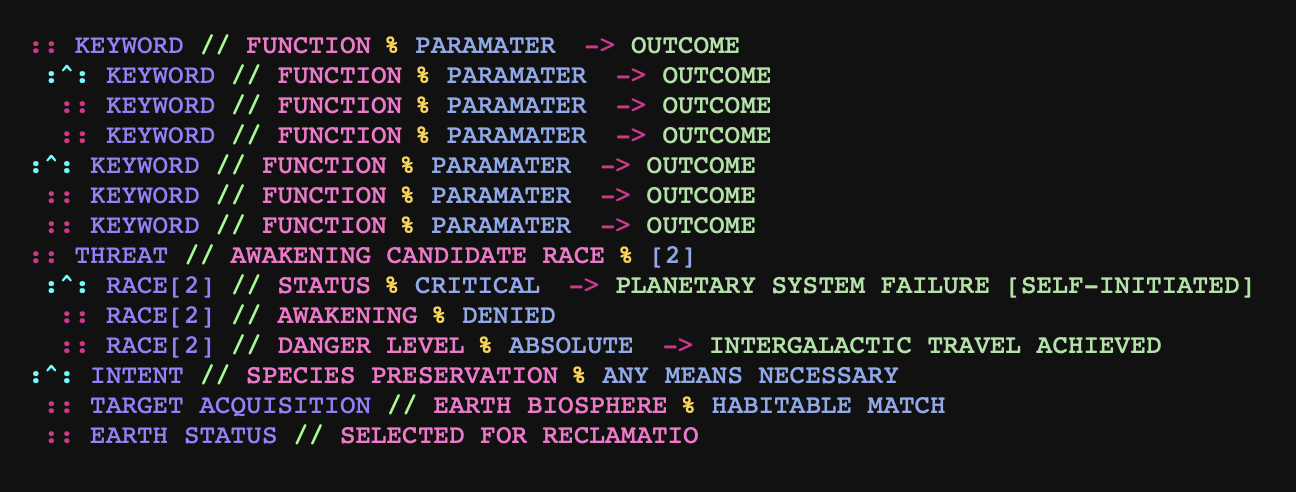
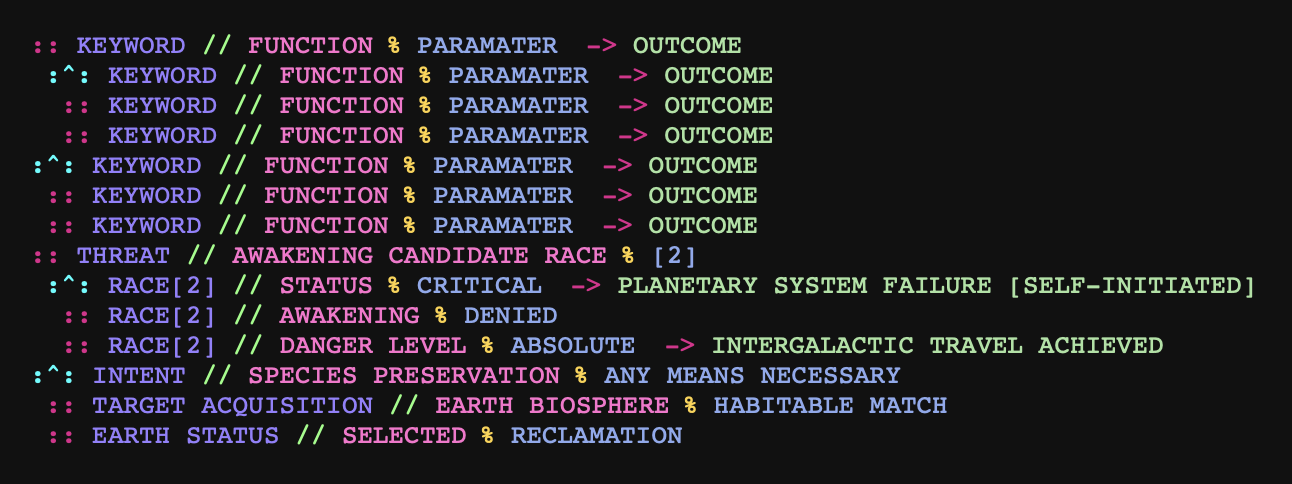
Refine EARTH STATUS line in BARRELMAN syntax and update README.md
- Corrected the EARTH STATUS line in barrelman_preview.html, README.md, and BARRELEXAMPLE.bman for clarity and consistency.
- Changed "SELECTED FOR RECLAMATIO" to "SELECTED % RECLAMATION" to enhance understanding of the syntax.

Changed region(s): [[0.031, 0.062, 0.9907, 0.9298]]

diff --git a/barrelman_preview.html b/barrelman_preview.html
@@ -23,5 +23,5 @@ body { line-height: 1.2; }
 <div class='entry'><span class='declaration'>        ::</span> <span class='relation'>RACE[2] // DANGER LEVEL //</span><span class='modifier'>% ABSOLUTE</span><span class='trigger'>-> INTERGALACTIC TRAVEL ACHIEVED</span></div>
 <div class='entry'><span class='declaration'>:^:</span> <span class='relation'>INTENT // SPECIES PRESERVATION //</span><span class='modifier'>% ANY MEANS NECESSARY</span></div>
 <div class='entry'><span class='declaration'>    ::</span> <span class='relation'>TARGET ACQUISITION // EARTH BIOSPHERE //</span><span class='modifier'>% HABITABLE MATCH</span></div>
-<div class='entry'><span class='declaration'>    ::</span> <span class='relation'>EARTH STATUS // SELECTED FOR RECLAMATIO //</span></div>
+<div class='entry'><span class='declaration'>    ::</span> <span class='relation'>EARTH STATUS // SELECTED //</span><span class='modifier'>% RECLAMATION</span></div>
 </pre></body></html>

diff --git a/README.md b/README.md
@@ -16,7 +16,7 @@ BARRELMAN is a hierarchical syntax language designed for relational data structu
 ├────────────────────────┼─────────────────────┼─────────────────────┼───────────────────┤
 │  [1.3] RELATION        │  [2.3] MODIFIER     │  [3.3] TRIGGER      │                   │
 ├────────────────────────┼─────────────────────┼─────────────────────┼───────────────────┤
-│  [1.4] NEW LINE        │                     │                     │                   │
+│  [1.4] LINE STRING     │                     │                     │                   │
 ├┬┬┬┬┬┬┬┬┬┬┬┬┬┬┬┬┬┬┬┬┬┬┬┬┼┬┬┬┬┬┬┬┬┬┬┬┬┬┬┬┬┬┬┬┬┬┼┬┬┬┬┬┬┬┬┬┬┬┬┬┬┬┬┬┬┬┬┬┼┬┬┬┬┬┬┬┬┬┬┬┬┬┬┬┬┬┬┬┤
 │                                                                                        │
 │             [1.3]                                                                      │
@@ -131,7 +131,7 @@ The Hierarchical Nesting Port is a vertical operator `^` inserted into a New Cal
   :: RACE[2] // DANGER LEVEL % ABSOLUTE -> INTERGALACTIC TRAVEL ACHIEVED
 :^: INTENT // SPECIES PRESERVATION % ANY MEANS NECESSARY
  :: TARGET ACQUISITION // EARTH BIOSPHERE % HABITABLE MATCH
- :: EARTH STATUS // SELECTED FOR RECLAMATIO
+ :: EARTH STATUS // SELECTED % RECLAMATION
 ```
 
 ![BARRELMAN SYNTAX HIGHLIGHT](assets/img/syntax-highlight.png)
